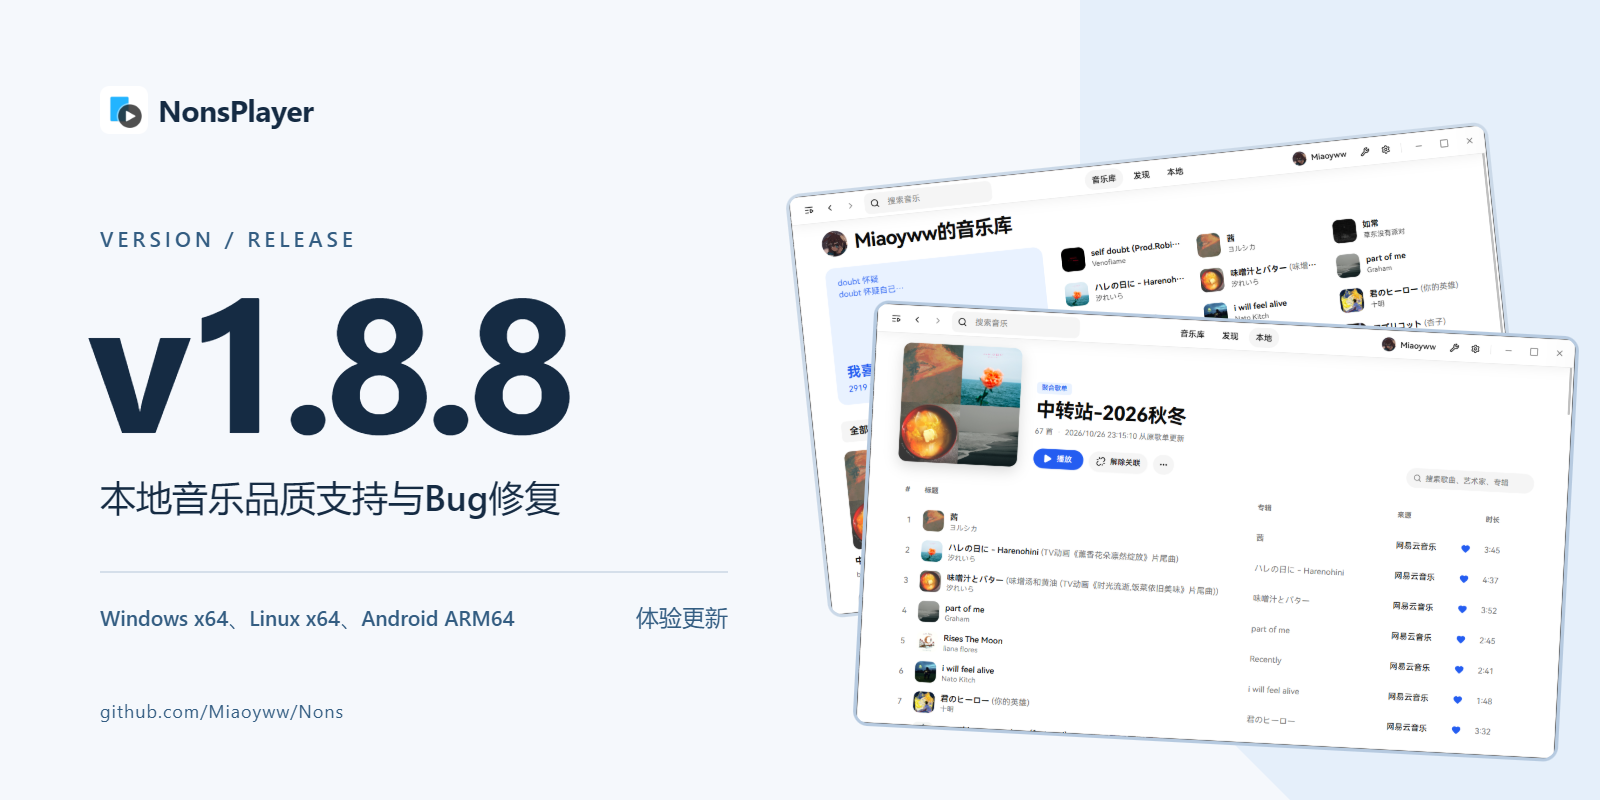
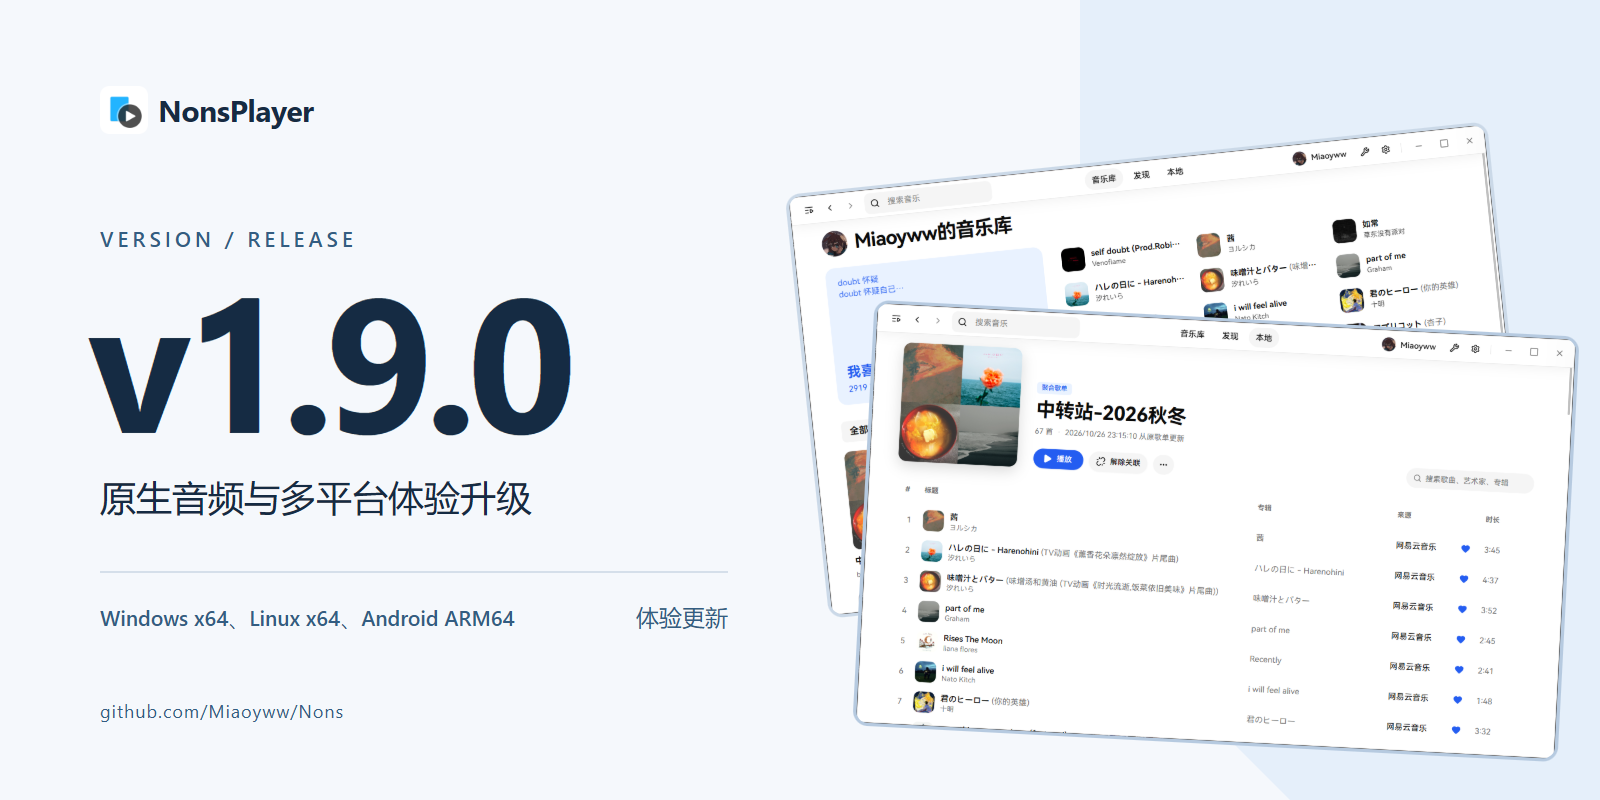
chore(release): 发布 1.9.0

diff --git a/docs/release-assets/editor.html b/docs/release-assets/editor.html
@@ -101,11 +101,11 @@
       <div class="controls">
         <label>
           版本号
-          <input id="edit-version" value="v1.8.7" maxlength="12" />
+          <input id="edit-version" value="v1.9.0" maxlength="12" />
         </label>
         <label>
           副标题
-          <input id="edit-subtitle" value="本地封面与播放体验改进" maxlength="28" />
+          <input id="edit-subtitle" value="原生音频与多平台体验升级" maxlength="28" />
         </label>
         <label>
           平台
@@ -125,9 +125,9 @@
           role="img"
           aria-labelledby="title desc"
         >
-          <title id="title">NonsPlayer v1.8.7 发布头图</title>
+          <title id="title">NonsPlayer v1.9.0 发布头图</title>
           <desc id="desc">
-            蓝白发布头图。v1.8.7，本地封面与播放体验改进，Windows x64、Linux x64、Android
+            蓝白发布头图。v1.9.0，原生音频与多平台体验升级，Windows x64、Linux x64、Android
             ARM64。右侧沿用音乐库与聚合歌单真实截图。
           </desc>
           <rect width="1600" height="800" fill="#F5F8FC" />
@@ -165,10 +165,10 @@
               font-weight="700"
               letter-spacing="-9"
             >
-              v1.8.7
+              v1.9.0
             </text>
             <text id="subtitle" x="100" y="511" fill="#152B43" font-size="36" font-weight="500">
-              本地封面与播放体验改进
+              原生音频与多平台体验升级
             </text>
             <path d="M100 572H728" stroke="#D5DFEA" stroke-width="2" />
             <text id="platform" x="100" y="626" fill="#335D82" font-size="21" font-weight="500">

diff --git a/app/src/features/settings/pages/playback.tsx b/app/src/features/settings/pages/playback.tsx
@@ -82,9 +82,7 @@ export function PlaybackPage() {
     <div className="flex flex-col gap-8">
       <div>
         <h2 className="text-xl font-bold">播放设置</h2>
-        <p className="mt-2 text-sm text-muted-foreground">
-          设置输出设备、音质与播放过渡；桌面端使用系统音频设备，Android 由 WebView 输出。
-        </p>
+        <p className="mt-2 text-sm text-muted-foreground">设置输出设备、音质与播放过渡。</p>
       </div>
       <SettingsCard
         searchId="output-device"

diff --git a/CHANGELOG.md b/CHANGELOG.md
@@ -4,24 +4,27 @@
 
 ## [Unreleased]
 
-### 播放
+## [1.9.0] - 2026-10-31
+
+![NonsPlayer v1.9.0 原生音频与多平台体验升级头图](https://raw.githubusercontent.com/Miaoyww/Nons/v1.9.0/docs/release-assets/header.png)
+
+NonsPlayer 1.9.0 带来原生音频播放核心、Android 本地音乐目录和全新的首次启动体验，并完善扩展商店与插件生态。本次 Release 提供 **Windows x64、Linux x64 和 Android ARM64** 构建附件：Windows 提供 MSI、EXE 安装包与免安装便携 ZIP，Linux 提供 AppImage 与 deb，Android 提供 ARM64 试用 APK。
+
+### 音乐库与发现
+
+- Android 支持通过系统目录选择器添加本地音乐文件夹，保存访问授权，并复用本地音频、封面、CUE 与歌词读取；启动、回到前台及手动重新扫描时更新曲库，播放支持拖动进度。
+
+### 本地音乐与播放
 
 - 桌面端播放核心改用内置 FFmpeg 解码与系统音频设备输出，Android 继续使用 WebAudio；桌面端输出设备列表改为读取原生音频设备。
 - 桌面播放支持精确定位、CUE 分轨边界、播放／暂停渐变和自动切歌交叉淡入淡出；在线音频沿用受控流传输，支持来源请求头及停止时取消网络读取。
 - 音频设备故障先尝试系统默认输出，恢复失败时保留当前歌曲与位置并提示错误，避免误判为音源失败而连续跳歌。
 
-### 歌词
+### 歌词与界面
 
 - 歌词设置新增全局偏移，默认提前 200 毫秒；单曲纠正偏移默认显示全局值，调整并保存后覆盖全局偏移。
-
-### 界面与交互
-
 - 设置与工具弹窗的宽度随窗口大小变化，大窗口下可显示更多内容。
 - 首次启动显示独立欢迎页，可选择已安装的音乐适配器和插件；设置 → 常规设置支持重新打开欢迎页。
-
-### 音乐库与发现
-
-- Android 支持通过系统目录选择器添加本地音乐文件夹，保存访问授权，并复用本地音频、封面、CUE 与歌词读取；启动、回到前台及手动重新扫描时更新曲库，播放支持拖动进度。
 
 ### 插件与工具
 
@@ -36,6 +39,16 @@
 - 第三方音乐适配器支持在设置中选择或拖入 ZIP／目录，兼容压缩包单层外部目录和 `dist/` 下的 WASM；安装前展示并确认 Host 权限，升级校验版本并在加载失败时保留旧包，卸载默认保留账号与适配器专属状态。
 - 发布 `@nonsplayer/plugin-sdk`，包含插件类型、WIT、Manifest schema 与 `nons-plugin` 构建 CLI；插件作者可用 `create`、`build`、`validate` 创建、打包并校验插件，宿主构建同时接受新包名与 `@app/plugin-sdk`。
 - Release 附件不再单独提供灵动岛 ZIP；灵动岛继续随安装包与便携版内置，首次启动后安装为关闭状态，可在设置 → 插件启用。
+
+### 安装与使用提示
+
+- Windows x64 安装版可通过内置更新获取新版；便携版请完整解压 `Nons_1.9.0_windows_x64_portable.zip` 后运行 `Nons.exe`，并保留 `data/` 目录。系统需已有 Microsoft Edge WebView2 Runtime。
+- Linux x64 提供 AppImage 与 deb；Android 提供 ARM64 试用 APK。
+
+### 已知限制与发布验收
+
+- 本次未提供 macOS 构建；macOS 安装与基本播放尚未完成验收。Android 仍为 ARM64 试用版，正式移动端发布待后续完成。
+- Windows 安装升级、真实音频设备与账号操作，Linux 基本播放，以及 Android 通知、锁屏封面和后台播放仍需使用发布构建进行实机验收；自动化测试不替代这些验收。
 
 ## [1.8.8] - 2026-10-29
 
